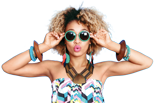
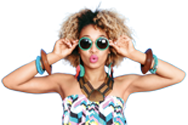
Changes made by Rahath Nadeem (rahathn@unosolindia.com).

diff --git a/isme/styles/main.css b/isme/styles/main.css
@@ -2844,10 +2844,10 @@ tile-frame-inner
     
 }
 
-.pic1 { background: url(../images/exp1.png) no-repeat right bottom; background-size: auto !important; }
-.pic2 { background: url(../images/exp2.png) no-repeat left bottom; background-size: auto !important; }
-.pic3 { background: url(../images/exp3.png) no-repeat right bottom; background-size: auto !important; }
-.pic4 { background: url(../images/exp4.png) no-repeat left bottom;  background-size: auto !important;}
+.pic1 { background: url(../images/exp1.png) no-repeat 75% 50%; background-size: auto !important; }
+.pic2 { background: url(../images/exp2.png) no-repeat 75% 50%; background-size: 90% !important; }
+.pic3 { background: url(../images/exp3.png) no-repeat 75% 50%; background-size: auto !important; }
+.pic4 { background: url(../images/exp4.png) no-repeat 75% 50%;  background-size: auto !important;}
 
 
  .localcls{
